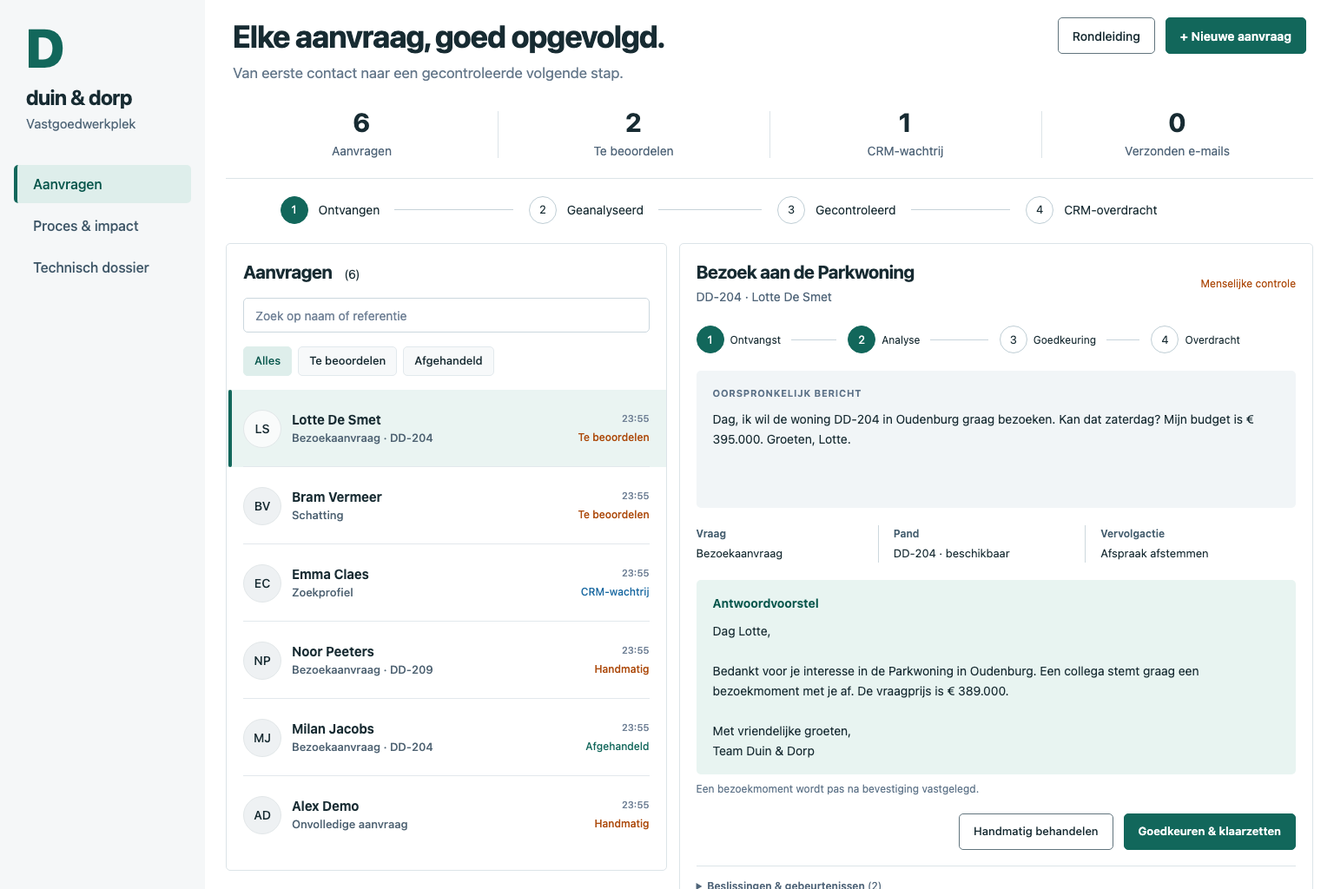
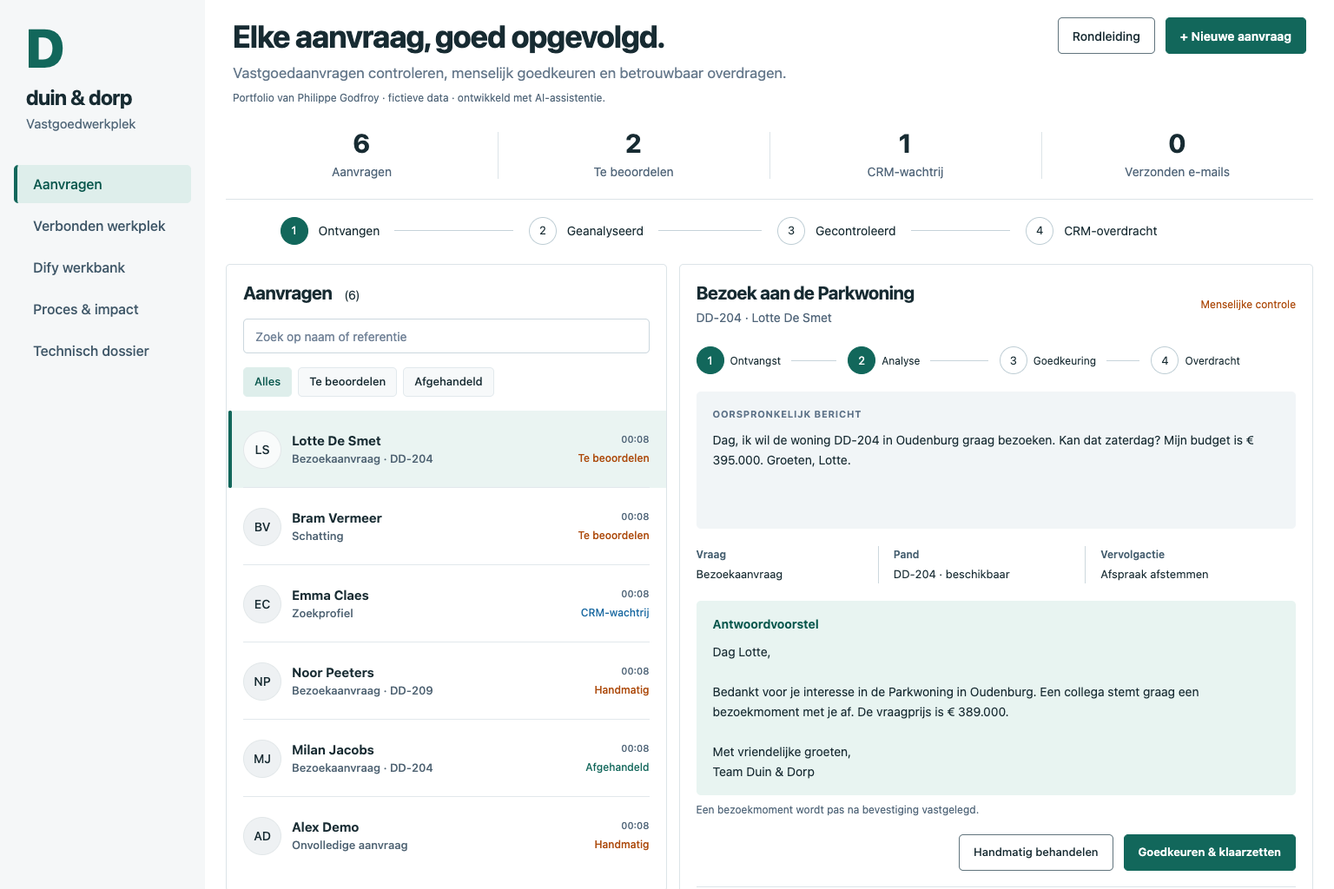
Polish portfolio clarity and accessible case navigation (#14)
* Polish portfolio clarity and accessible case navigation

* Test keyboard scrolling only with verified table overflow

diff --git a/tests/browser/presentation.spec.ts b/tests/browser/presentation.spec.ts
@@ -1,0 +1,89 @@
+import { test, expect } from '@playwright/test';
+
+test('mobile dossier selection and new intake reveal and focus the selected details', async ({
+  page,
+}) => {
+  await page.setViewportSize({ width: 375, height: 812 });
+  await page.goto('./');
+  const title = page.locator('#selected-case-title');
+  await expect(title).not.toBeFocused();
+  await expect(
+    page.getByRole('heading', { name: 'Elke aanvraag, goed opgevolgd.' }),
+  ).toBeInViewport();
+  await page.getByRole('button', { name: /Bram Vermeer/ }).click();
+  await expect(title).toHaveText('Schatting');
+  await expect(title).toBeFocused();
+  await expect(title).toBeInViewport();
+  // Clicking the already selected row must also return the viewer to its details.
+  await page.getByRole('button', { name: /Bram Vermeer/ }).click();
+  await expect(title).toBeFocused();
+  await expect(title).toBeInViewport();
+  await page.getByRole('button', { name: '+ Nieuwe aanvraag', exact: true }).click();
+  await page.getByRole('button', { name: 'Aanvraag verwerken', exact: true }).click();
+  await expect(page.getByRole('dialog')).toHaveCount(0);
+  await expect(title).toContainText('Bezoek aan de Parkwoning');
+  await expect(title).toBeFocused();
+  await expect(title).toBeInViewport();
+  expect(await page.evaluate(() => document.documentElement.scrollWidth <= innerWidth)).toBe(true);
+});
+
+test('desktop selection stays in the list and mobile evidence table is keyboard-scrollable', async ({
+  page,
+}) => {
+  await page.setViewportSize({ width: 1440, height: 1000 });
+  await page.goto('./');
+  const row = page.getByRole('button', { name: /Bram Vermeer/ });
+  await row.click();
+  await expect(row).toBeFocused();
+  await expect(page.getByRole('group', { name: 'Procesindicatoren', exact: true })).toBeVisible();
+  await expect(page.getByRole('group', { name: 'Filter aanvragen', exact: true })).toBeVisible();
+  await expect(page.locator('.page-header')).toContainText('ontwikkeld met AI-assistentie');
+  // At 375px Arial can fit the table completely, unlike the macOS system font.
+  // Use the 320px reflow viewport and require real overflow before testing a scroll key.
+  await page.setViewportSize({ width: 320, height: 812 });
+  await page.goto('./?view=technical');
+  const table = page.getByRole('region', { name: 'Bewijsvergelijking', exact: true });
+  expect(await table.evaluate((e) => e.scrollWidth - e.clientWidth)).toBeGreaterThan(0);
+  // Reach the scroll region using real Tab navigation, not programmatic focus.
+  for (let i = 0; i < 35 && !(await table.evaluate((e) => e === document.activeElement)); i++)
+    await page.keyboard.press('Tab');
+  await expect(table).toBeFocused();
+  await page.keyboard.press('ArrowRight');
+  await expect.poll(() => table.evaluate((e) => e.scrollLeft)).toBeGreaterThan(0);
+  expect(await page.evaluate(() => document.documentElement.scrollWidth <= innerWidth)).toBe(true);
+});
+
+test('small supporting text and keyboard focus retain sufficient contrast', async ({ page }) => {
+  const contrast = async (selector: string, focus = false) =>
+    page
+      .locator(selector)
+      .first()
+      .evaluate((element, focus) => {
+        const rgb = (color: string) =>
+          color
+            .match(/[\d.]+/g)!
+            .slice(0, 3)
+            .map(Number);
+        const luminance = (color: string) => {
+          const c = rgb(color)
+            .map((n) => n / 255)
+            .map((n) => (n <= 0.04045 ? n / 12.92 : ((n + 0.055) / 1.055) ** 2.4));
+          return c[0] * 0.2126 + c[1] * 0.7152 + c[2] * 0.0722;
+        };
+        let parent: Element | null = focus ? element.parentElement : element;
+        while (parent && getComputedStyle(parent).backgroundColor === 'rgba(0, 0, 0, 0)')
+          parent = parent.parentElement;
+        const background = parent ? getComputedStyle(parent).backgroundColor : 'rgb(255, 255, 255)';
+        const style = getComputedStyle(element);
+        const a = luminance(focus ? style.outlineColor : style.color),
+          b = luminance(background);
+        return (Math.max(a, b) + 0.05) / (Math.min(a, b) + 0.05);
+      }, focus);
+  await page.goto('./');
+  expect(await contrast('.row-meta time')).toBeGreaterThanOrEqual(4.5);
+  await page.keyboard.press('Tab');
+  await page.getByRole('button', { name: 'Rondleiding', exact: true }).focus();
+  expect(await contrast('.header-actions button', true)).toBeGreaterThanOrEqual(3);
+  await page.getByRole('button', { name: 'Proces & impact', exact: true }).click();
+  expect(await contrast('.impact-result .fine')).toBeGreaterThanOrEqual(4.5);
+});

diff --git a/src/App.tsx b/src/App.tsx
@@ -64,6 +64,16 @@ export function App() {
     }
   }, [session]);
   const lead = session.leads.find((x) => x.id === selected) ?? session.leads[0];
+  function selectLead(id: string) {
+    setSelected(id);
+    if (window.matchMedia('(max-width: 620px)').matches) {
+      requestAnimationFrame(() => {
+        const title = document.getElementById('selected-case-title');
+        title?.focus({ preventScroll: true });
+        title?.scrollIntoView({ block: 'start', behavior: 'auto' });
+      });
+    }
+  }
   function change(fn: (l: Lead) => Lead, notice?: string) {
     try {
       const changed = fn(lead);
@@ -82,7 +92,7 @@ export function App() {
     try {
       const l = createLead(input, session.listings, new Date().toISOString());
       setSession((s) => ({ ...s, leads: [l, ...s.leads] }));
-      setSelected(l.id);
+      selectLead(l.id);
       setView('leads');
       setForm(false);
       setNotice(
@@ -152,7 +162,10 @@ export function App() {
         <header className="page-header">
           <div>
             <h1>Elke aanvraag, goed opgevolgd.</h1>
-            <p>Van eerste contact naar een gecontroleerde volgende stap.</p>
+            <p>Vastgoedaanvragen controleren, menselijk goedkeuren en betrouwbaar overdragen.</p>
+            <p className="portfolio-context">
+              Portfolio van Philippe Godfroy · fictieve data · ontwikkeld met AI-assistentie.
+            </p>
           </div>
           <div className="header-actions">
             <button onClick={() => setTour(true)}>Rondleiding</button>
@@ -161,7 +174,7 @@ export function App() {
             </button>
           </div>
         </header>
-        <div className="metrics" aria-label="Procesindicatoren">
+        <div className="metrics" role="group" aria-label="Procesindicatoren">
           {[
             [session.leads.length, 'Aanvragen'],
             [session.leads.filter((x) => x.status === 'review').length, 'Te beoordelen'],
@@ -195,7 +208,7 @@ export function App() {
               ))}
             </ol>
             <div className="workbench">
-              <LeadList leads={session.leads} selected={selected} onSelect={setSelected} />
+              <LeadList leads={session.leads} selected={selected} onSelect={selectLead} />
               <LeadDetail
                 key={lead.id}
                 lead={lead}
@@ -265,7 +278,8 @@ export function App() {
           <Technical />
         )}
         <footer>
-          Onafhankelijke portfolio-case. Geen echte klanten, CRM-koppeling of verzending.{' '}
+          Zelfgestuurde portfolio-case, ontwikkeld met AI-assistentie. Fictieve data, geen
+          productie-CRM of verzending.{' '}
           <a href="https://github.com/phlppgdfry/real-estate-automation-workbench">
             Broncode & onderbouwing ↗
           </a>

diff --git a/src/style.css b/src/style.css
@@ -66,8 +66,10 @@ a:focus-visible,
 input:focus-visible,
 textarea:focus-visible,
 select:focus-visible,
-summary:focus-visible {
-  outline: 3px solid #dd9440;
+summary:focus-visible,
+.dify-table:focus-visible,
+#selected-case-title:focus-visible {
+  outline: 3px solid #995d11;
   outline-offset: 3px;
 }
 a {
@@ -373,7 +375,7 @@ input::placeholder {
   flex-shrink: 0;
 }
 .row-meta time {
-  color: #718297;
+  color: #52677a;
 }
 .status {
   font-size: 12px;
@@ -478,7 +480,7 @@ input::placeholder {
 }
 .fine {
   font-size: 12px;
-  color: #60758a;
+  color: #52677a;
   margin-top: 7px;
 }
 .actions {
@@ -1934,4 +1936,14 @@ dialog.canvas-viewer:not([open]) {
     display: grid;
     grid-template-columns: 1fr;
   }
+}
+
+.page-header .portfolio-context {
+  margin-top: 6px;
+  font-size: 12px;
+  line-height: 1.5;
+  color: #52677a;
+}
+#selected-case-title {
+  scroll-margin-top: 24px;
 }

diff --git a/src/components/ShowcaseEvidence.tsx b/src/components/ShowcaseEvidence.tsx
@@ -8,7 +8,7 @@ export function ShowcaseEvidence() {
     <section className="dify-card" aria-label="Bewijs en resterende grenzen">
       <p className="eyebrow">Controleer zelf wat er werkelijk is uitgevoerd</p>
       <h3>Van werkende demo naar aantoonbaar gedrag</h3>
-      <div className="dify-table">
+      <div className="dify-table" role="region" aria-label="Bewijsvergelijking" tabIndex={0}>
         <table>
           <thead>
             <tr>

diff --git a/src/components/ShowcaseVideo.tsx b/src/components/ShowcaseVideo.tsx
@@ -52,7 +52,7 @@ export function ShowcaseVideo() {
       {failed ? (
         <p role="alert">Afspelen lukt niet in deze browser. Download de opname hieronder.</p>
       ) : null}
-      <div className="video-chapters" aria-label="Videohoofdstukken">
+      <div className="video-chapters" role="group" aria-label="Videohoofdstukken">
         {demo.chapters.map((chapter) => (
           <button
             key={chapter.start}

diff --git a/src/components/LeadDetail.tsx b/src/components/LeadDetail.tsx
@@ -19,7 +19,7 @@ export function LeadDetail({
     <section className="panel lead-detail" aria-label="Aanvraagdetails">
       <div className="detail-heading">
         <div>
-          <h2>
+          <h2 id="selected-case-title" tabIndex={-1}>
             {lead.extraction.intent === 'visit' && listing
               ? `Bezoek aan de ${listing.title}`
               : intentLabels[lead.extraction.intent]}

diff --git a/src/components/LeadList.tsx b/src/components/LeadList.tsx
@@ -29,7 +29,7 @@ export function LeadList({
           onChange={(e) => setSearch(e.target.value)}
         />
       </label>
-      <div className="filters" aria-label="Filter aanvragen">
+      <div className="filters" role="group" aria-label="Filter aanvragen">
         {[
           ['all', 'Alles'],
           ['review', 'Te beoordelen'],

diff --git a/design/QA.md b/design/QA.md
@@ -77,3 +77,39 @@ De functiematrix is gelijkgetrokken met de gepubliceerde native Knowledge/Human 
 De verbonden werkplek toont procedures en broncitaten leesbaar; technische JSON is uitklapbaar. Documentcorrectie, geweigerde verzonnen waarde, verlopen beoordeling en gewiste gegevens na sessiewisseling zijn via de echte lokale API getest. De Dify-werkbank wist oude resultaten en dossiers bij een nieuwe sessietoken.
 
 Native Schedule Trigger: echte timer-run, 3 stappen, 0,483 s en 0 tokens. Gepubliceerd, normale werkdagplanning hersteld en toegangspuntschakelaar gecontroleerd uitgezet. Dit bewijs komt uit de echte Kippieg-Chrome-sessie, niet uit een gereconstrueerde screenshot. De oudere v2.3-uitspraken hierboven zijn historische controles; de actuele canvasvergelijking en releasegrenzen staan in de gekoppelde bewijsbestanden.
+
+## Definitieve presentatie- en UX-review · 2 november 2026
+
+Baseline: schone `main` op `1e8694438f487b8700acf530798b767a1f824ad4`, gelijk aan de remote en de eerdere afsluiting. Productrelease v3.0.3 blijft op `63809d8f459540075baa910261b561f97b8febf1`. De drie major-Dependabot-voorstellen blijven bewust uitgesteld. De bestaande vormgeving is behouden: wit/koelgrijs, donkere tekst, teal voor acties, statuswoorden naast kleur, systeemfonts en de bestaande lijst/detailstructuur. Geen nieuw framework, animatie, modelrequest of infrastructuur.
+
+De beoordeling is gebaseerd op echte Chrome-renders van alle vijf hoofdonderdelen op 1440 px en 375 px, toetsenbordbediening, de bestaande lokale API-fixtures en de gepubliceerde media. Screenshots van vóór en na zijn tijdelijk buiten de repo opgeslagen. De publieke [productpreview](../public/preview.png) is één authentieke nieuwe render; historische technische/Dify-afbeeldingen zijn behouden. Beoordelingen van recruiterbegrip zijn expertinschattingen, geen gemeten gebruikersonderzoek.
+
+| Bevinding                                         | Impact en bewijs                                                                                                                         | Gerichte correctie                                                                                                                          | Verificatie                                                                                                                                                           |
+| ------------------------------------------------- | ---------------------------------------------------------------------------------------------------------------------------------------- | ------------------------------------------------------------------------------------------------------------------------------------------- | --------------------------------------------------------------------------------------------------------------------------------------------------------------------- |
+| P2 — Kleine ondersteunende tekst te licht         | Tijdlabels 3,93:1 op wit; calculatornoot 4,36:1 op de lichte achtergrond, onder 4,5:1                                                    | Twee bestaande tekstkleuren donkerder gemaakt                                                                                               | axe meldt deze overtredingen niet meer; browserregressie controleert berekend contrast ≥ 4,5:1                                                                        |
+| P2 — Zwakke focusring                             | Amber focuskleur 2,50:1 op wit                                                                                                           | Donkerder amber binnen dezelfde kleurfamilie                                                                                                | Berekend 5,35:1 op wit; regressie vereist ≥ 3:1                                                                                                                       |
+| P2 — Groepslabels zonder geldige rol              | axe markeerde labels op generieke divs voor indicatoren, filters en hoofdstukken als handmatig te beoordelen                             | Bestaande groepen krijgen `role="group"`                                                                                                    | Geen resterende `aria-prohibited-attr`-meldingen in de onderzochte schermen                                                                                           |
+| P2 — Mobiele bewijstabel niet expliciet focusbaar | axe vond de horizontaal scrollbare bewijsvergelijking; de regio had geen tabstop                                                         | Bestaande tabelcontainer krijgt een naam, regirol, tabstop en focusstijl                                                                    | Echte Tab-navigatie en ArrowRight-scroll getest, zonder pagina-overflow                                                                                               |
+| P2 — Mobiele selectie liet details buiten beeld   | Na Bram kiezen stond de titel op circa y=1111 bij een viewport van 812 px                                                                | Alleen op de bestaande gestapelde layout (≤ 620 px) wordt na selectie/nieuwe intake de actuele titel gefocust en in beeld gebracht          | Nieuwe titel op circa y=24, focus op de titel; ook dezelfde rij opnieuw kiezen en nieuwe intake getest. Desktop houdt focus in de lijst; initiële pagina springt niet |
+| P2 — Portfolioherkomst niet direct zichtbaar      | De eerste viewport benoemde het fictieve prototype en AI-assistentie niet; de footer kon als onafhankelijke implementatie worden gelezen | Concretere ondertitel, korte herkomstregel en preciezere footer                                                                             | Desktop/mobiel visueel nagekeken; geen productie-, klant- of besparingsclaim toegevoegd                                                                               |
+| Ontbrekende interviewroute                        | Er was een technische reviewgids, maar geen equivalente pitch/businessroute met interviewvragen                                          | Eén [interviewgids](../docs/portfolio-interview-guide.md) met 30 seconden, 3 minuten, 10 minuten en twaalf brongebonden vragen; README-link | Relatieve links en vergelijking met architectuur, broncode, tests en bewijsgrenzen                                                                                    |
+
+### Resultaten en bewijsgrenzen
+
+- `npm run check`: **80/80 unit-/integratie-/HTTP-tests**, typecontrole, productiebuild, **24/24 + 16/16 + 12/12** regelregressies, storingsdrill, OpenAPI, bron/DSL-sync, formattering, links en publiceerbare-bestandenscan geslaagd.
+- `npm run test:e2e`: **19/19 Chrome/Chromium-browsertests**, inclusief drie nieuwe presentatie-/toegankelijkheidsregressies. Bestaande tests en assertions zijn niet afgezwakt.
+- `npm run verify:install`: schone bronkopie zonder bestaande secrets, database of Git; volledige controle en echte lokale HTTP-keten geslaagd.
+- axe-core **4.13.0**, gebruikt uit een reeds aanwezige tijdelijke toolcache, zonder projectdependency. `axe.run` met `wcag2a`, `wcag2aa`, `wcag21aa` en `wcag22aa`: **0 automatische overtredingen in 10 hoofdscherm-/viewportcombinaties** na de correcties.
+- Resterende axe-`incomplete`-meldingen zijn niet als automatische passes gepresenteerd. Bij de lijst verhinderen scheidingslijnen/selectiestripes als pseudo-elementen de automatische achtergrondbepaling. Visuele/CSS-controle en berekening op de werkelijke vlakke tekstachtergronden geven voor de gecontroleerde tijd-/statuslabels minimaal circa **5,04:1**. Technische tabeltekst is donker op licht; de video is stil, heeft toelichting in beeld en een tekstversie. Dit is geen volledige WCAG- of screenreader-certificering.
+- Handmatig in Chrome: skiplink, native formulier-validatie, Escape, focusherstel, geblokkeerd verkocht pand en mobiel selectieresultaat gecontroleerd. Native `<dialog>` houdt de achtergrond inert; een Tab-uitstap naar browserbediening is geen reden om een eigen focus-trap toe te voegen. Er is geen schermlezer-gebruikersonderzoek uitgevoerd.
+- Alle vijf hoofdonderdelen: geen waargenomen runtimefouten of horizontale overflow in de onderzochte desktop-/mobiele renders. Aanvullende reflowcontrole op 320, 414 en 768 px slaagt voor alle vijf onderdelen. Inline tekstlinks onder 24 px vallen niet automatisch af: hun context en tussenruimte zijn visueel beoordeeld; er is geen ongefundeerde claim dat elke link een 44 px-knop moet worden.
+- Gepubliceerde media: alle **8 native canvas-/runafbeeldingen** laden; lazy loading en de vergrotingsviewer behouden de leesbaarheid van grote bewijsbeelden. De video blijft **76,12 s**, **1280 × 1000**, zeven hoofdstukken, MP4 en WebM met werkende playback, representatieve hoofdstuksprongen en tekstversie. De opname is niet opnieuw gemaakt: haar expliciete scope is lokale intake/document/broncontrole; goedkeuring en herstel worden in de interactieve demo getoond.
+- De nieuwe `public/preview.png` is circa **186 KiB**, toont alleen fictieve seeddata en is geen gegenereerde mock. Geen debugpaneel of credential in de screenshot. Canvasbeelden en modelrunbewijzen behouden hun historische betekenis.
+
+### Eindafweging
+
+De bestaande operationele UI, procesroute, onderbouwing en expliciete beperkingen zijn de sterkste presentatie-elementen. De gerichte correcties verbeteren leesbaarheid, focus, geloofwaardigheid en interviewnavigatie zonder de afgesloten implementatie te heropenen. De drie reviewroutes blijven één applicatie: rondleiding/README voor de recruiter, Proces & impact voor de businessmanager, Technisch dossier en repository voor de technische reviewer.
+
+Publicatie van dit afzonderlijke presentatiepakket vereist expliciete toestemming en de bestaande PR-/CI-regels. Release v3.0.3 en historische test-/Cloud-bewijzen worden niet overschreven. Er is geen nieuwe productrelease of grotere verbouwronde nodig om deze presentatiecorrectie te beoordelen. Bekende grenzen blijven de labopstelling, niet-uitgevoerde Cloud-modelruns, onafhankelijke labels en verse Dify-workspace; ze blokkeren de portfolio-case niet.
+
+De eerste Linux-CI-run vond een onjuiste aanname in de nieuwe scrolltest: op 375 px past de tabel bij Arial precies (307 px content/container), terwijl het macOS-systeemfont daar 329 px content nodig heeft. Een passende tabel hoort niet te scrollen. De fixture gebruikt nu de 320 px-reflowviewport (252 px container) en eist expliciet echte overflow vóór dezelfde Tab-/ArrowRight-assertions. De productcode en scrollverwachting zijn niet afgezwakt; beide fontvarianten hebben op deze viewport aantoonbaar overflow.

diff --git a/docs/portfolio-interview-guide.md b/docs/portfolio-interview-guide.md
@@ -1,0 +1,45 @@
+# Duin & Dorp uitleggen in een gesprek
+
+Zelfgestuurde portfolio-case met fictieve gegevens en AI-assistentie. Gebruik onderstaande routes als voorbereiding; claim alleen kennis en bijdragen die je zelf kunt uitleggen en demonstreren. De [afsluitaudit](release-readiness.md#definitieve-afsluitaudit) beschrijft de technische baseline en grenzen.
+
+## Pitch van dertig seconden
+
+> Duin & Dorp onderzoekt hoe een vastgoedaanvraag gecontroleerd kan worden opgevolgd: één keer ontvangen, het pand en antwoordvoorstel controleren, menselijk goedkeuren en de overdracht bevestigen. De case combineert procesanalyse met een React/TypeScript-demo, een duurzame Node/SQLite-API en Dify-workflows. De implementatie is met AI-assistentie uitgewerkt en heeft reproduceerbare tests en bewijs. Het is een fictief prototype, geen klantimplementatie of gemeten besparingsproject.
+
+## Businessroute van drie minuten
+
+1. **0:00–0:30 — Het probleem.** Leg de [AS-IS](../CASE_STUDY.md) uit: lezen, overtypen, pandinformatie opzoeken en handmatig overdragen. Dit zijn te toetsen werkhypothesen, geen interviews met echte medewerkers.
+2. **0:30–1:15 — De voorgestelde werkwijze.** Open [Aanvragen](https://phlppgdfry.github.io/real-estate-automation-workbench/). Wijs de oorspronkelijke vraag, pandstatus en het concept aan. Keur goed: het dossier staat klaar, maar is nog niet overgedragen. Open het verkochte pand en toon waarom goedkeuring blokkeert.
+3. **1:15–2:15 — Wat gebeurt bij een storing?** Gebruik **CRM-fout simuleren** en **CRM-wachtrij verwerken**. Toon de fout en de geschiedenis; leg retry en beheerherstel uit. Dit verandert uitsluitend de browsersimulatie, niet een echt CRM. De rondleiding begeleidt deze onderwerpen.
+4. **2:15–3:00 — Waarde en grenzen.** Open **Proces & impact**. Bespreek minder herhaalwerk, herleidbare besluiten en herstel als ontwerpdoelen. De calculator gebruikt aannames, geen gemeten ROI. Echte inzet vraagt een gezaghebbende pandbron, leverancierstoegang, identiteitsbeheer en een pilot.
+
+De [video van 76 seconden](https://phlppgdfry.github.io/real-estate-automation-workbench/?view=connected) toont de aparte lokale API-route tot document en NL/FR-broncontrole. Hij toont geen live modelrun, dossiergoedkeuring of volledige overdracht; gebruik daarvoor de interactieve demo en het technische bewijs.
+
+## Technische route van tien minuten
+
+| Tijd     | Toon en leg uit                                                                                                                                                                                                                                      |
+| -------- | ---------------------------------------------------------------------------------------------------------------------------------------------------------------------------------------------------------------------------------------------------- |
+| 0–2 min  | [Architectuur](architecture.md): publieke browseropslag tegenover de aparte lokale API. Gedeelde domeinregels, afzonderlijke opslag en uitvoering.                                                                                                   |
+| 2–4 min  | [Inbox](../server/inbox.ts), [worker](../server/analysis-worker.ts) en [Store](../server/store.ts): bevestigen vóór modelwerk, idempotentie, leases/fencing en atomair goedkeuren plus outbox.                                                       |
+| 4–6 min  | [AI-grens](ai-operating-model.md), [broncontracten](../src/dify-contracts.ts) en [documentreview](../server/document-review.ts): AI stelt voor; code valideert en een medewerker beslist. Een inhoudsreview keurt het dossier niet automatisch goed. |
+| 6–8 min  | [Security](../SECURITY.md), [connector](../server/crm-connector.ts) en [runbook](operations.md): labrollen, actuele versie, onbekende provideruitkomst, reconcile en gecontroleerd herstel.                                                          |
+| 8–10 min | [Bewijs](../EVIDENCE.md), tests en [release](https://github.com/phlppgdfry/real-estate-automation-workbench/releases/tag/v3.0.3): onderscheid regelregressies, lokale HTTP-tests, historische Dify-runs en niet-uitgevoerde Cloud-verificatie.       |
+
+Gebruik de bestaande commando's uit [README](../README.md). `npm run check`, `npm run test:e2e`, `npm run drill` en `npm run verify:install` vragen geen betaald model. Start in een gesprek geen Cloud-run om een claim alsnog te bewijzen.
+
+## Twaalf kritische vragen
+
+1. **Waarom deze architectuur?** De publieke demo moet zonder server of account te beoordelen zijn; de aparte API maakt duurzame ontvangst, transacties en herstel toetsbaar. SQLite past bij het lokale lab, niet automatisch bij een organisatiebrede productieopstelling. Zie [ontwerpkeuzes](decisions.md).
+2. **Wat doet AI en wat beslist de code?** AI kan intentie of documentfeiten voorstellen. Schema, letterlijke herkomst, catalogusstatus en rechten worden daarna gecontroleerd; de antwoordtemplate gebruikt catalogusfeiten. Een exact citaat bewijst geen correcte interpretatie.
+3. **Waarom menselijke goedkeuring?** Een vastgoedantwoord kan een onjuiste belofte bevatten. De medewerker beoordeelt vóór overdracht; documentreview en dossiergoedkeuring zijn verschillende handelingen.
+4. **Wat als de modelprovider uitvalt?** Een geldige aanvraag is al duurzaam ontvangen. Analyse kan met begrensde retry worden hervat; een verlopen workerlease mag geen resultaat meer committen. De [storingsdrill](../scripts/failure-drill.ts) maakt dit lokaal zichtbaar.
+5. **Hoe voorkom je dubbele verwerking?** Event-ID en inhoudsfingerprint maken herlevering herkenbaar; afwijkende inhoud met dezelfde ID wordt geweigerd. De HTTP-testconnector gebruikt daarnaast een remote idempotentiesleutel en inhoudshash. Dat is geen universele exactly-once-garantie voor modelaanroepen.
+6. **Wat als een externe write slaagt maar het antwoord verloren gaat?** De connector behandelt de uitkomst als onbekend en zoekt eerst het remote ontvangstbewijs op. De herstarttest simuleert juist die commit-disconnect. Dit is een afzonderlijke lokale testdienst, geen leveranciers-CRM.
+7. **Hoe ga je om met prompt injection?** De extractor heeft geen schrijvende tools en onbetrouwbare tekst geeft geen extra bevoegdheid. Deterministische bron-/beleidscontrole en menselijke beoordeling beperken gevolgen; patroonherkenning detecteert niet elke aanval.
+8. **Welke beveiliging ontbreekt voor productie?** De labtokens zijn geen SSO of object-/tenantautorisatie. Ook retentie, versleuteling, parserisolatie, rate limits, restore en leveranciersafspraken vragen een echt implementatieontwerp. De repo claimt geen securitycertificering.
+9. **Hoe is AI-gegenereerde code gevalideerd?** De repo bevat regressies voor domeingrenzen, rollen, herstart, concurrency, vervalste bronnen, reviewversies en onbekende netwerkuitkomsten, plus browseracceptatie en CI. Tests bewijzen hun onderzochte gedrag; ze vervangen geen eigen uitleg of onafhankelijke modelbenchmark.
+10. **Wat is echt in Dify uitgevoerd?** Bewijs is vastgelegd voor gespecialiseerde runs, de native Agent, Knowledge API en een modelvrije geplande trigger. Nieuwe Cloud-bestandsruns, Human Input-hervatting en de nieuwe Cloud-benchmark blijven apart als niet uitgevoerd gemarkeerd. De trigger staat na de test uit volgens het vastgelegde bewijs.
+11. **Hoe zou je businesswaarde meten?** Begin met een nulmeting en schaduwpilot: actieve behandeltijd inclusief controle, responstijd, correcties, duplicaten en overdrachtsfouten. Potentiële capaciteit uit de calculator is geen cashbesparing of bewezen effect.
+12. **Wat was jouw bijdrage en waar hielp AI?** Benoem concreet welke procesanalyse, eisen, ontwerpkeuzes, implementatie- en reviewstappen je zelf kunt verdedigen. Wijs bij uitleg naar code en uitgevoerde tests; laat ook zien waar AI hielp. Claim geen onafhankelijke handmatige implementatie of werkgeverervaring die de repo niet kan aantonen.
+
+Stop na de afgesproken route. Voor een verdiepende technische beoordeling bestaat al [de reviewgids](reviewer-guide.md); er is geen extra feature nodig om dit verhaal overtuigend te maken.

diff --git a/README.md b/README.md
@@ -109,6 +109,8 @@ Het huidige gratis Dify-modelquotum is opgebruikt. Bestaande live resultaten bli
 
 De calculator toont scenario-aannames; evaluatievoorbeelden zijn AI-geschreven regressies, geen onafhankelijke accuracymeting. Een exact citaat bewijst herkomst, geen juiste interpretatie. [Evaluatiemethode](docs/evaluation.md) · [menselijke review](docs/evaluation-human-review.md).
 
+Voor een gesprek: [pitch van 30 seconden, businessroute van 3 minuten en technische route van 10 minuten](docs/portfolio-interview-guide.md).
+
 ## Herkomst en licentie
 
 Philippe Godfroy, met AI-assistentie, 2026. Code MIT; documentatie en fictieve data CC BY 4.0: [LICENSE](LICENSE). Afhankelijkheden behouden hun eigen licenties. Systeemfonts, geen externe fontverzoeken. De interface is HTML/CSS; screenshots en opnamen tonen de werkende toepassingen.
